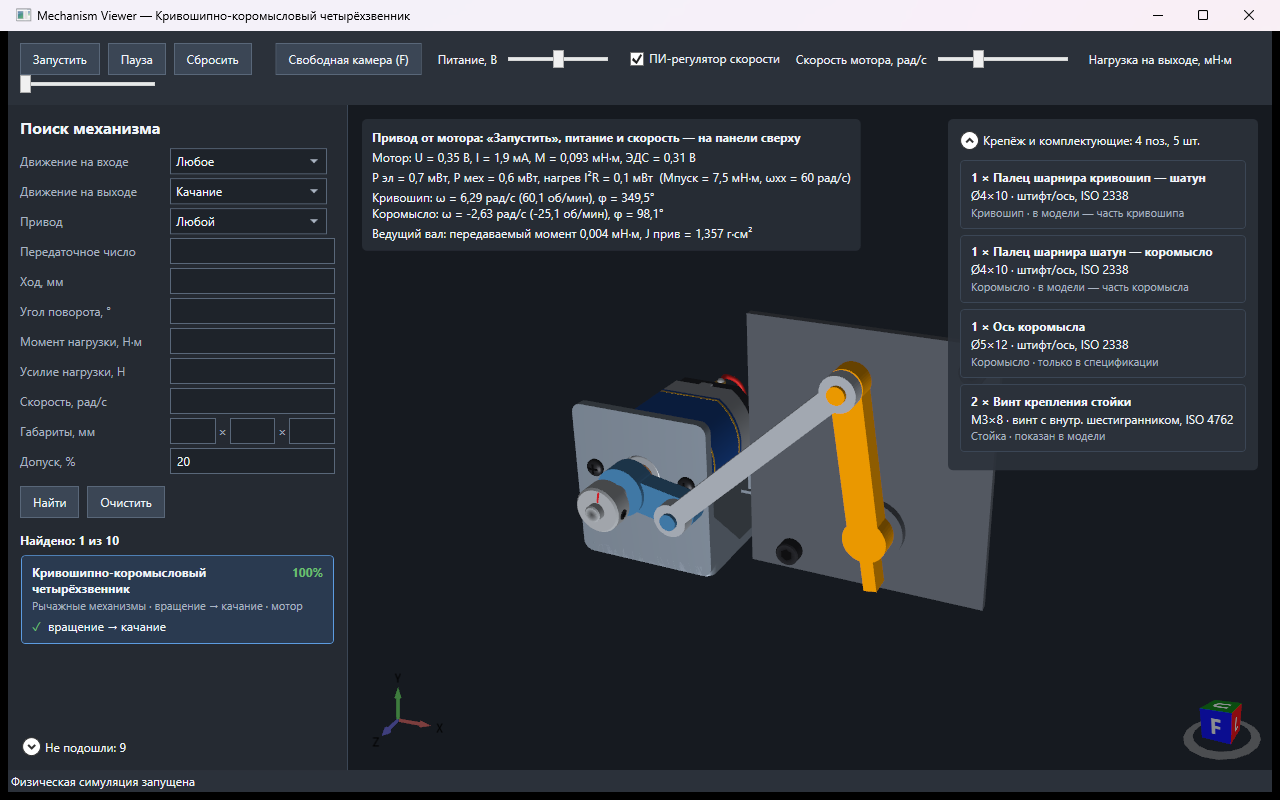
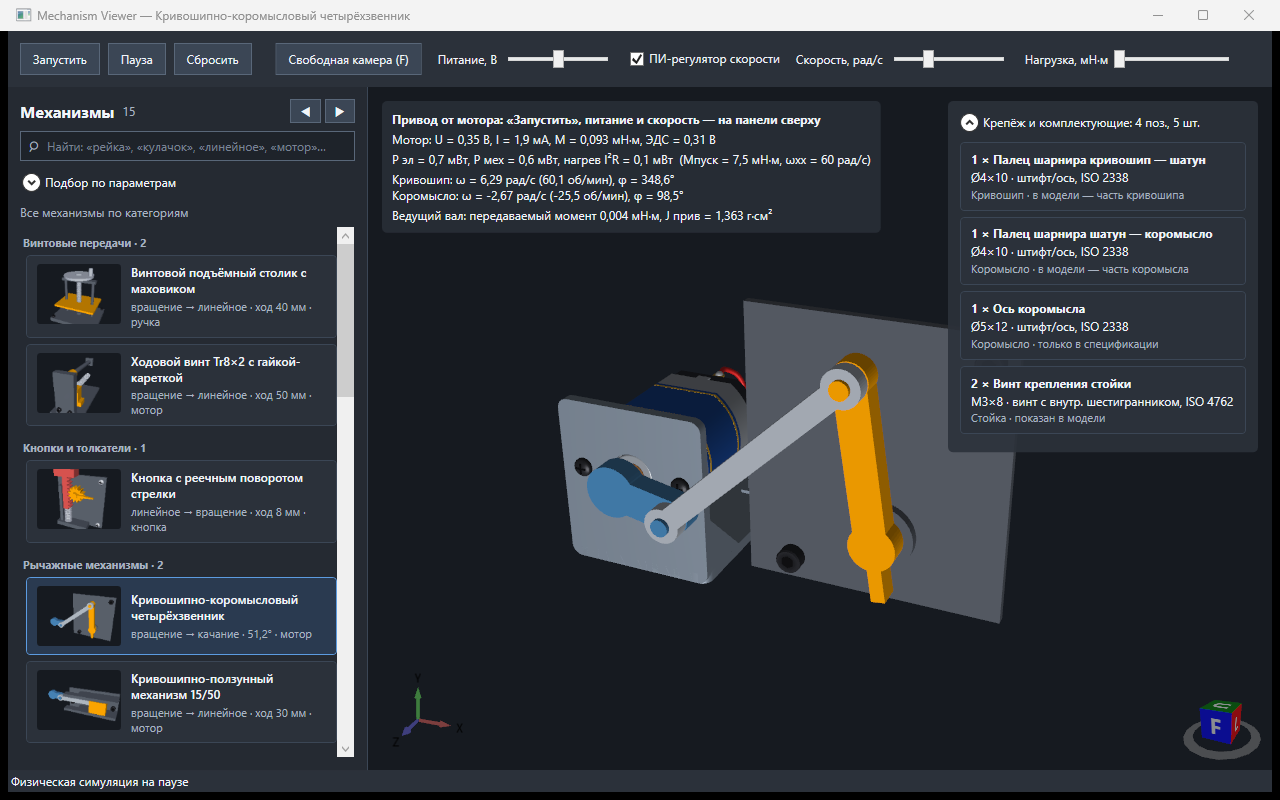
new readme

diff --git a/README.md b/README.md
@@ -6,7 +6,7 @@
 
 **Стек:** C# · .NET 10 · WPF · [HelixToolkit.Wpf](https://github.com/helix-toolkit/helix-toolkit) · xUnit
 
-![Четырёхзвенник в работе: слева поиск, в центре модель, справа спецификация крепежа](docs/screenshots/four-bar-running.png)
+![Четырёхзвенник в работе: слева каталог с миниатюрами, в центре модель, справа спецификация крепежа](docs/screenshots/four-bar-running.png)
 
 ## Возможности
 
